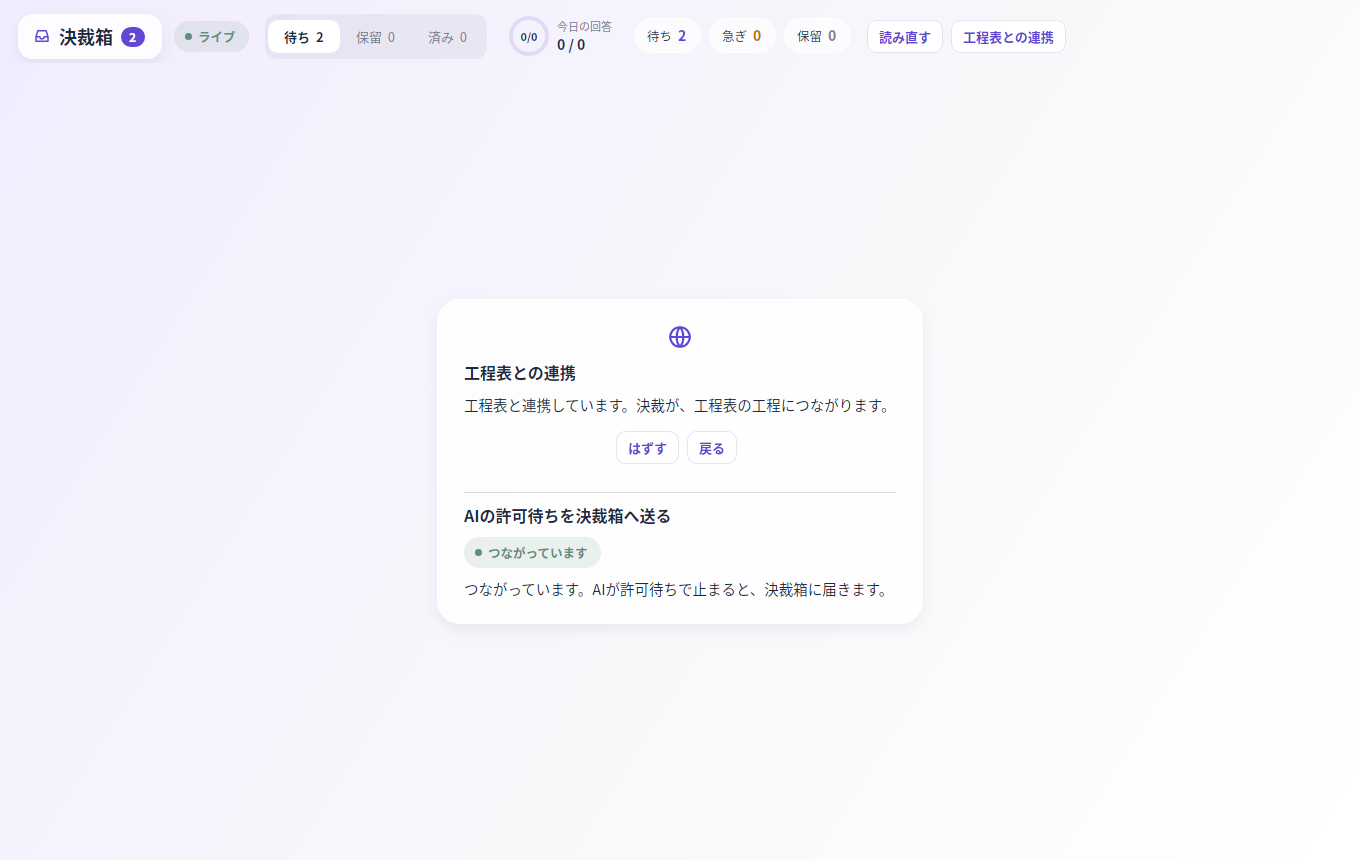
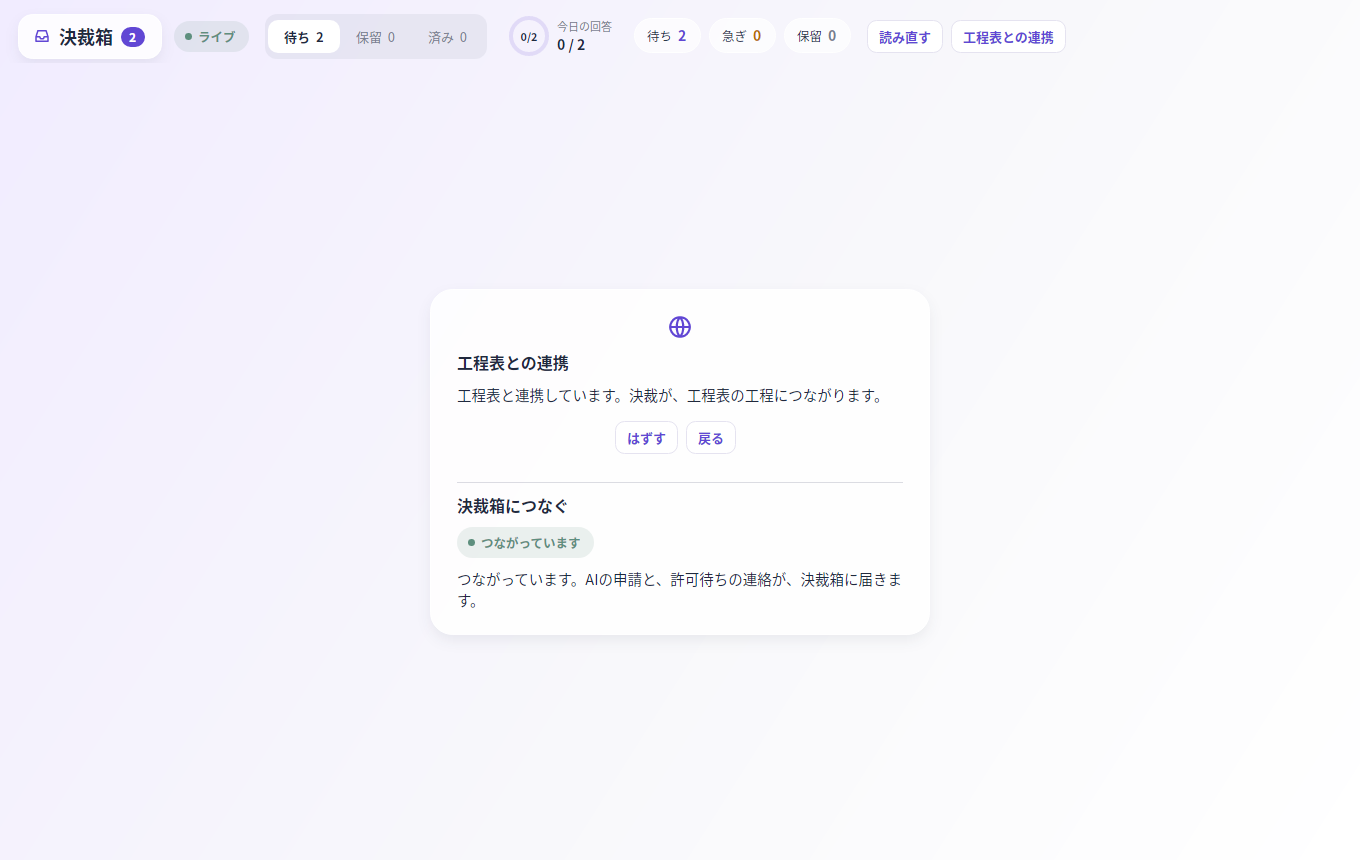
Linux/Android: the pairing view 「決裁箱につなぐ」 with code and 確認コード beside the QR (fourth version)
The waiting state shows the QR, two labelled selectable values (コード, 確認コード) and both ways written (Scan, Type). The one fixture now returns a typedSecret. Tests per state; docs/linux-architecture.md and the two views follow the new words. Built on Core PR #2648 (Anis): this branch carries its commits until #2648 is on main.

Changed region(s): [[0.3397, 0.5744, 0.6485, 0.6953], [0.3397, 0.393, 0.6485, 0.5442], [0.4941, 0.3628, 0.525, 0.4233]]

diff --git a/linux/BellTeam.Linux/ApprovalsSeatLink.cs b/linux/BellTeam.Linux/ApprovalsSeatLink.cs
@@ -8,7 +8,7 @@ using static BellTeam.Linux.LatticeLook;
 
 namespace BellTeam.Linux;
 
-// 「AIの許可待ちを決裁箱へ送る」 (seat-approval-card.md, "The pairing view"): under the 連携 panel of the 決裁箱 window, the same on every client. Drawn only from the body's three routes
+// 「決裁箱につなぐ」 (seat-approval-card.md, "The pairing view"): under the 連携 panel of the 決裁箱 window, the same on every client. Drawn only from the body's three routes
 // (GET /api/approvals/seat-link, POST …/start, POST …/stop); the QR is drawn from qrText, never from anything this client reads elsewhere. A body without the routes reads as unavailable (the plain line and one button).
 internal sealed partial class ApprovalsWindow
 {
@@ -45,6 +45,15 @@ internal sealed partial class ApprovalsWindow
         chip.HorizontalAlignment = HorizontalAlignment.Left; return chip;
     }
 
+    private static Control Value(string label, string value)
+    {
+        var text = new SelectableTextBlock { Text = value, FontSize = 18, FontWeight = FontWeight.Bold, FontFamily = new FontFamily("monospace"), Foreground = Brush(Ink), HorizontalAlignment = HorizontalAlignment.Center };
+        Avalonia.Automation.AutomationProperties.SetName(text, label);
+        var box = new StackPanel { Spacing = 2, HorizontalAlignment = HorizontalAlignment.Center };
+        var caption = Text(label, 12, Muted); caption.HorizontalAlignment = HorizontalAlignment.Center;
+        box.Children.Add(caption); box.Children.Add(text); return box;
+    }
+
     internal Control? SeatLinkSection()
     {
         if (seatLink is not { } link) return null;
@@ -57,7 +66,10 @@ internal sealed partial class ApprovalsWindow
         {
             var code = new QrView(qr, 200) { HorizontalAlignment = HorizontalAlignment.Center, Margin = new Thickness(0, 6, 0, 0) }; Avalonia.Automation.AutomationProperties.SetName(code, "決裁箱につなぐQRコード");
             section.Children.Add(code);
-            if (link.Code is { Length: > 0 } typed) { var text = Text(typed, 18, Ink, FontWeight.Bold, wrap: true); text.FontFamily = new FontFamily("monospace"); text.HorizontalAlignment = HorizontalAlignment.Center; section.Children.Add(text); }
+            // The app needs both codes (without the 確認コード the pairing binds no key): two labelled, selectable values, then the typed way written under them.
+            if (link.Code is { Length: > 0 } code1) section.Children.Add(Value(SeatLinkText.CodeLabel, code1));
+            if (link.TypedSecret is { Length: > 0 } secret) section.Children.Add(Value(SeatLinkText.SecretLabel, secret));
+            section.Children.Add(Text(SeatLinkText.Type, 14.5, Ink, wrap: true));
             if (link.ExpiresAt is { } expiry) { var left = Text(SeatLinkText.Until(expiry), 12, Muted); left.HorizontalAlignment = HorizontalAlignment.Center; section.Children.Add(left); }
         }
         if (SeatLinkText.Action(link) is { } label)

diff --git a/linux/BellTeam.Linux.Tests/ApprovalsSeatLinkTests.cs b/linux/BellTeam.Linux.Tests/ApprovalsSeatLinkTests.cs
@@ -4,7 +4,7 @@ using BellTeam.Core;
 
 namespace BellTeam.Linux;
 
-// 「AIの許可待ちを決裁箱へ送る」 (seat-approval-card.md): drawn only from the body's three routes, in the 工程表との連携 panel; a body without the routes (404) draws no section.
+// 「決裁箱につなぐ」 (seat-approval-card.md): drawn only from the body's three routes, in the 工程表との連携 panel; a body without the routes (404) draws no section.
 public sealed class ApprovalsSeatLinkTests
 {
     private static async Task<ApprovalsWindow> OpenAsync(string scene, string seat)
@@ -42,14 +42,25 @@ public sealed class ApprovalsSeatLinkTests
     });
 
     [Fact]
-    public Task StartShowsTheQrAndTheTypedCodeAndStopLeaves() => Ui.Run(async () =>
+    public Task RemovedAndExpiredEachShowTheirWordsAndTheTryAgainButton() => Ui.Run(async () =>
+    {
+        foreach (var (seat, words) in new[] { ("removed", SeatLinkText.Removed), ("failed-expired", SeatLinkText.Expired) })
+        {
+            var window = await OpenAsync("connected", seat);
+            try { Assert.True(Has(window, words)); Assert.True(Has(window, SeatLinkText.Again)); }
+            finally { window.Close(); }
+        }
+    });
+
+    [Fact]
+    public Task StartShowsTheQrAndBothCodesAndBothWaysAndStopLeaves() => Ui.Run(async () =>
     {
         var window = await OpenAsync("connected", "none");
         try
         {
             Assert.True(Has(window, SeatLinkText.None));
             Find(window, SeatLinkText.Connect)!.RaiseEvent(new Avalonia.Interactivity.RoutedEventArgs(Button.ClickEvent)); await Task.Delay(200); Avalonia.Threading.Dispatcher.UIThread.RunJobs();
-            Assert.True(Has(window, SeatLinkText.Scan)); Assert.True(Has(window, "4CH9-MGVR-13NC-MC6C")); Assert.NotEmpty(window.GetVisualDescendants().OfType<QrView>());
+            Assert.True(Has(window, SeatLinkText.Scan)); Assert.True(Has(window, "ABCD-EFGH")); Assert.True(Has(window, "4CH9MGVR13NCMC6C")); Assert.True(Has(window, SeatLinkText.CodeLabel)); Assert.True(Has(window, SeatLinkText.SecretLabel)); Assert.True(Has(window, SeatLinkText.Type)); Assert.NotEmpty(window.GetVisualDescendants().OfType<QrView>());
             Find(window, SeatLinkText.Cancel)!.RaiseEvent(new Avalonia.Interactivity.RoutedEventArgs(Button.ClickEvent)); await Task.Delay(200); Avalonia.Threading.Dispatcher.UIThread.RunJobs();
             Assert.True(Has(window, SeatLinkText.None));
         }

diff --git a/linux/BellTeam.Linux/ApprovalsFixture.cs b/linux/BellTeam.Linux/ApprovalsFixture.cs
@@ -55,7 +55,7 @@ internal sealed class ApprovalsFixture(string scene = "main", string seat = "non
         {
             if (route.EndsWith("/start", StringComparison.Ordinal)) seat = "waiting"; else if (route.EndsWith("/stop", StringComparison.Ordinal)) seat = "none";
             return seat == "waiting"
-                ? Json(new { state = "waiting", code = "4CH9-MGVR-13NC-MC6C", qrText = "https://approval-box.example/pair?c=4CH9MGVR13NCMC6C", expiresAt = DateTimeOffset.UtcNow.AddMinutes(4).AddSeconds(30).ToString("O") })
+                ? Json(new { state = "waiting", code = "ABCD-EFGH", typedSecret = "4CH9MGVR13NCMC6C", qrText = "https://approval-box.example/pair?c=4CH9MGVR13NCMC6C", expiresAt = DateTimeOffset.UtcNow.AddMinutes(4).AddSeconds(30).ToString("O") })
                 : seat is "failed-rejected" or "failed-expired" ? Json(new { state = "failed", reason = seat[7..] }) : Json(new { state = seat });
         }
         HttpResponseMessage Disconnect() { connection = "not_connected"; return Json(new { state = connection }); }

diff --git a/linux/BellTeam.Linux/ApprovalsViews.cs b/linux/BellTeam.Linux/ApprovalsViews.cs
@@ -93,7 +93,7 @@ internal sealed partial class ApprovalsWindow
                 Add("戻る", false, () => { linkOpen = false; Render(); }); break;
         }
         stack.Children.Add(buttons);
-        if (JoinedBlock() is { } joined) stack.Children.Add(joined);   // this device's join state, then (when it is on main) 「AIの許可待ちを決裁箱へ送る」
+        if (JoinedBlock() is { } joined) stack.Children.Add(joined);   // this device's join state, then (when it is on main) 「決裁箱につなぐ」
         if (SeatLinkSection() is { } seat) stack.Children.Add(seat);
         var card = Glass(stack, 22, new Thickness(26, 24)); card.MaxWidth = 520; card.HorizontalAlignment = HorizontalAlignment.Center; card.VerticalAlignment = VerticalAlignment.Center;
         return card;

diff --git a/docs/linux-architecture.md b/docs/linux-architecture.md
@@ -44,7 +44,7 @@ flowchart LR
 - 決裁箱の子としてのつなぎ（abx-child-join。契約は[child-join.md](architecture/modules/approval-box-extension/child-join.md)、オーナー2026-11-24「Aだ」：BellTeamの決裁箱ウィンドウは、オーナーのApproval Boxに子の端末として入る。親にはならない）：画面は1つ（Androidは同じ`ApprovalsWindow`なので同じ）。ポート`IApprovalSource`に`Join`（`ChildJoinState`：NotJoined・SigningIn・Waiting（ライブラリのjoinリンクと期限）・Failed（コード）・Joined。親に外された時は`Removed`）と`RequestJoin(provider)`（apple｜google。必ず選んだ方を渡す）・`CancelJoin()`（サインイン中と承認待ちの両方で効く）・`LeaveAsync()`を足した（部品の`requestJoin`・`cancelJoin`・`leave`）。`Join`が無いアダプターは今まで通りで、画面は`Join`がある時だけ出る。未接続の間はウィンドウ全体が1枚：「決裁箱につなぎます」・「この端末を、あなたの決裁箱に子の端末として追加します。」・最初の画面と同じサインイン（`LocalFormText.FirstSignInChildOnly`・黒い「Appleでサインイン」が先・「Googleでサインイン」）；サインイン中は`SignInText.Waiting`と「やめる」；`Waiting`は「決裁箱の承認を待っています」・QR（ラベル「決裁箱につなぐQRコード」・280px）・「H:mm まで有効」・オーナーのQRの文`LocalFormText.Qr`・「やめる」；失敗は`ChildJoinText.FailedLine(code)`（other_accountだけ専用の文）と、さっき押した方のサインインでの「もう一度つなぐ」（押した方が分からない時は2つのボタン）；親に外された時（`notJoined(removed)`）は「決裁箱で、この端末のつなぎが外されました。」を未接続の画面の上に置き、ボタンはAppleとGoogleのまま。つながった後は普通の決裁箱で、「工程表との連携」の欄に「決裁箱につながっています」と「つなぎを外す」（2段：外す／やめる。BellTeam自身のサインインには触れない）。つないでいる・つなぎ直し・契約・更新の行は今までの帯のまま（言葉は契約の表と同じ）。語はアニスのCore（`ChildJoin.cs`の`ChildJoinText`）。「ほかの端末を追加する」・購入・プランは出ない（試験`ApprovalsChildJoinTests`）。**部品につないだ**（abx-child-join-embed。Kitepon.ApprovalBox.Client 0.5.0・.NET、login-billing 0.22.4）：`ApprovalBoxClientOptions.Join = new ChildJoinOptions{…}`（PassProviderは無い。どちらか1つ）。`LinuxApprovalBoxDevice`（LinuxとAndroidが共有）が部品を持ち、`ClientApprovalSource`が部品の`joinState`を`ChildJoinState`に写し、`RequestJoin`・`CancelJoin`・`LeaveAsync`を部品の`requestJoin`・`cancelJoin`・`leave`へ渡す。Linuxの鍵とサインインはBellTeam自身のものと別の置き場（`<設定の場所>/approval-box-child`。鍵のファイルと保持されたサインイン）、サインインに使う識別子はBellTeamと同じGoogleデスクトップのクライアントとApple Services ID（親の受け入れ先に載っている）。決裁箱のサインイン・`lbq1`の引き渡し・`PassProvider`・`ApprovalBoxAccount`・「Approval Boxにサインイン」「Approval Boxからサインアウト」は外した（`ApprovalBoxInteropTests`の旧サインインの試験も外した）。「アカウントを削除」は、つながっていれば`leave`（サーバーの親の一覧からも消える）、サインイン中・承認待ちなら`cancelJoin`、そのあと端末のファイルを消す。本物のブラウザーのサインインと本物の親のスマホでの通しは未確認（部品の試験にも入っていない）。
 - 席のツール承認（seat-approval-clients。契約は[seat-approvals.md](architecture/modules/execution/seat-approvals.md)、オーナー2026-11-24）：ツールの承認で止まった席（Claude Code・Codex）の承認を、BellTeamの中で答えられる。読み・答え・言葉はアニスのCore（`SeatApprovals.cs`の`SeatApproval`・`SeatApprovalText`、`Workspace.SeatApprovals`・`SeatApprovalsChanged`・`AnswerSeatApprovalAsync`、`ConversationEntry.SeatApprovalBadge`。Windowsと共通）が持ち、Linuxは描くだけ。メンバー一覧のそのBotの行に「承認待ち」（琥珀）、そのBotの会話の上（起動できない理由の下。`SeatApprovalBar`。Androidへ共通リンク）に項目を、古い順に全部出す：見出し「承認を待っています」・ツール名とAI（例「Bash · Codex」）・コマンドの原文（等幅・選択可。TUIのClaude席はtoolもcommandもnullなので「Botの画面を見てください」）・理由・サーバーの`choices`の2つのラベル（「1回だけ許可する」「許可しない」）。押すと`POST /api/seat-approvals/:id/answer {decision}`を1回だけ（自動再送なし）。送っている間は2つとも押せない。結果のあとは必ず読み直し、409（別の場所で答えられた）は「別の場所で答えられたか、もう承認待ちではありません。」、それ以外の失敗は「いまは送れませんでした。もう一度押してください。」。決裁箱のカード（`card: "filed"`）があってもアプリの項目は残る。Botの画面（`ScreenView`）の許可の帯（`GET …/screen/approval`）は今まで通りで、どちらで答えても最初の答えが勝つ。見え方：[Linux](linux-seat-approvals.png)・[TUIのClaude席](linux-seat-approvals-tui.png)・[Android](android-seat-approvals.png)・[Androidの一覧](android-seat-approvals-list.png)（`--render-conversation`と、本番につながない仮のサーバー）。試験は`SeatApprovalBarTests`。
 - 最初の画面（first-screen-parent-approval。オーナー2026-11-24：親に承認してもらう手順を、起動時の最初の画面でわかりやすく見せる。見本は決裁箱0.2.2、Macが基準、全クライアント同じ並び）：このPCが承認・購読済みでない間の最初の画面（`LinuxAccountGate`が開く`LinuxAccountCard(firstScreen: true)`）は、(1) サインインの前：アプリ名「BellTeam」・1行（Coreの`LocalFormText.AppName`・`Purpose`）・オーナーの文`FirstSignInChildOnly`（親になれない端末の文：「本アプリケーションを使用するには、iPhone、iPad、Mac、Android等の購読済みの端末で、サインイン後に表示されるQRコードを読み取る必要があります。」。iPhone・Mac・Androidは今までの`FirstSignIn`）・「Appleでサインイン」「Googleでサインイン」（Appleが先。`SignInText`。QRを出す入口はこの2つだけ。Appleのボタンは1つ）、(2) サインインの後：見出し「使っている端末の承認を待っています」（`WaitingTitle`）・QR（280px、整数ピクセル）・「H:mm まで有効」（`ValidUntil`）・`LocalFormText.Qr`・「やめる」。「この端末を親にする」は無い（鍵穴なし）。設定の「利用と課金」のカードは今まで通り。見え方：[最初の画面](linux-first-screen.png)・[承認待ち](linux-first-screen-approval.png)（`--render-startup account|account-qr`）。試験は`QrGuidanceTests`。
-- 「AIの許可待ちを決裁箱へ送る」（seat-link。契約は[seat-approval-card.md](architecture/modules/approval-box-extension/seat-approval-card.md)の「The pairing view」、オーナー2026-11-24）：決裁箱ウィンドウの「工程表との連携」パネルの下（`ApprovalsSeatLink.cs`。Androidは同じ`ApprovalsWindow`を使うので同じ画面）。本体の3つの道だけから描く（`GET /api/approvals/seat-link`・`POST …/start`・`POST …/stop`。Core：アニスの`SeatLink`・`SeatLinkText`・`BellApi.SeatLinkAsync`/`StartSeatLinkAsync`/`StopSeatLinkAsync`）。状態ごとに文（契約の表のまま）と、none・waiting以外は状態の札（つながっています=緑、つなぎが外れています=灰、つなげませんでした=赤。「ライブ」と同じ形）：none「つなぐ」、waiting＝説明の1行・QR・打ち込みの符号・「H:mmまで（JST）」・「やめる」（3秒ごとに読み直し、パネルを閉じると止まる）、linked＝ボタンなし、removed・failed・unavailable＝「もう一度つなぐ」。本体に道が無い（404）時はこの欄を描かない（`absent`）。503・403・通信の失敗は「いまはつなげません。…」。見え方：[待ち](linux-seat-link-waiting.png)・[つながっている](linux-seat-link-linked.png)（`--render-approvals-device device-seat-waiting|device-seat-linked`）。試験は`ApprovalsSeatLinkTests`。
+- 「決裁箱につなぐ」（seat-link。契約は[seat-approval-card.md](architecture/modules/approval-box-extension/seat-approval-card.md)の「The pairing view」第4版、オーナー2026-11-26）：決裁箱ウィンドウの「工程表との連携」パネルの下（`ApprovalsSeatLink.cs`。Androidは同じ`ApprovalsWindow`を使うので同じ画面）。AIの申請と許可待ちの連絡が使う、決裁箱とのつなぎ1本（1ポート）の画面。本体の3つの道だけから描く（`GET /api/approvals/seat-link`・`POST …/start`・`POST …/stop`。Core：アニスの`SeatLink`・`SeatLinkText`・`BellApi.SeatLinkAsync`/`StartSeatLinkAsync`/`StopSeatLinkAsync`）。状態ごとに文（契約の表のまま）と、none・waiting以外は状態の札（つながっています=緑、つなぎが外れています=灰、つなげませんでした=赤。「ライブ」と同じ形）：none「つなぐ」、waiting＝QRの説明（Scan）・QR・選べる文字の「コード」（8文字）と「確認コード」（16文字。アプリは両方要る）・QRを読めない時の説明（Type）・「H:mmまで（JST）」・「やめる」（3秒ごとに読み直し、パネルを閉じると止まる）、linked＝ボタンなし、removed・failed（rejected・expired・その他）・unavailable＝「もう一度つなぐ」。本体に道が無い（404）時はこの欄を描かない（`absent`）。503・403・通信の失敗は「いまはつなげません。…」。見え方：[待ち](linux-seat-link-waiting.png)・[つながっている](linux-seat-link-linked.png)（`--render-approvals-device device-seat-waiting|device-seat-linked`）。試験は`ApprovalsSeatLinkTests`。
 - QRの文と開き方（lb0220-clients。login-billing 0.22.4・契約1.50の11.12。オーナー裁定）：文言はライブラリのものでなくBellTeam自身の2文（0.22.4に`LocalGuidance`は無い）：サインインの最初の画面でAppleとGoogleのボタンの前に「すでにほかの端末で使っている方は、同じアカウントでサインインしてから、次に出るQRコードを使用中の端末のカメラで読んでください。」、QRの真下に「親となる端末（課金操作をするカメラのあるスマートフォンがお勧め）のカメラでQRコードを読んでください。」（アニスの共通Core：`LocalFormText.FirstSignIn`・`LocalFormText.Qr`）。QRは0.22.4で、Ethernetなど私有アドレスをすべて載せる。ローカルの設定に`AppId`（`LocalFormIds.AppleBundleId`＝dev.kitepon.bellbot）を渡すので、QRは`https://login-billing.kitepon.dev/join/dev.kitepon.bellbot#<lbq4>`の形になり、スマートフォン自身のカメラで読むとアプリが開く（lbq4の本体は`#`の後ろで、どのサーバーにも届かない）。QRの画面（`LinuxAccountCard.QrBlock`。Androidの`AccountCard`も同じ並び）は、QRの真下に文を一字も変えずに置き、その下に待ちの行・やめる。PCにはカメラの入口が無いので、リンクを開く側はAndroidだけ。見え方：[linux-qr-guidance.png](linux-qr-guidance.png)。試験は`QrGuidanceTests`。2台の両方が0.22.0（0.21.xの端末は新しいリンクのQRを読めない）。
 - 本体の状態は共通入口のHTTP APIとSSEだけで使う。本体の内部状態を直接読み書きしない。
 
